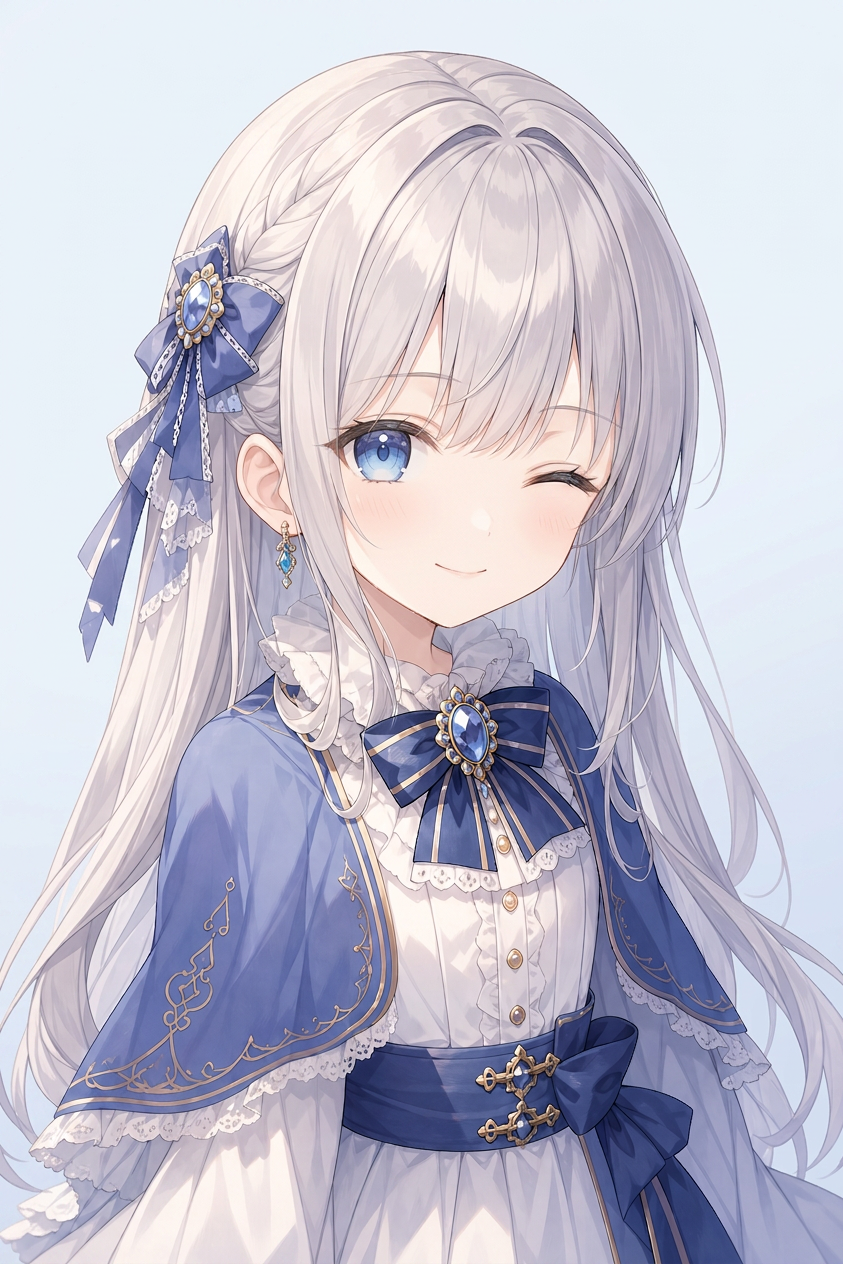
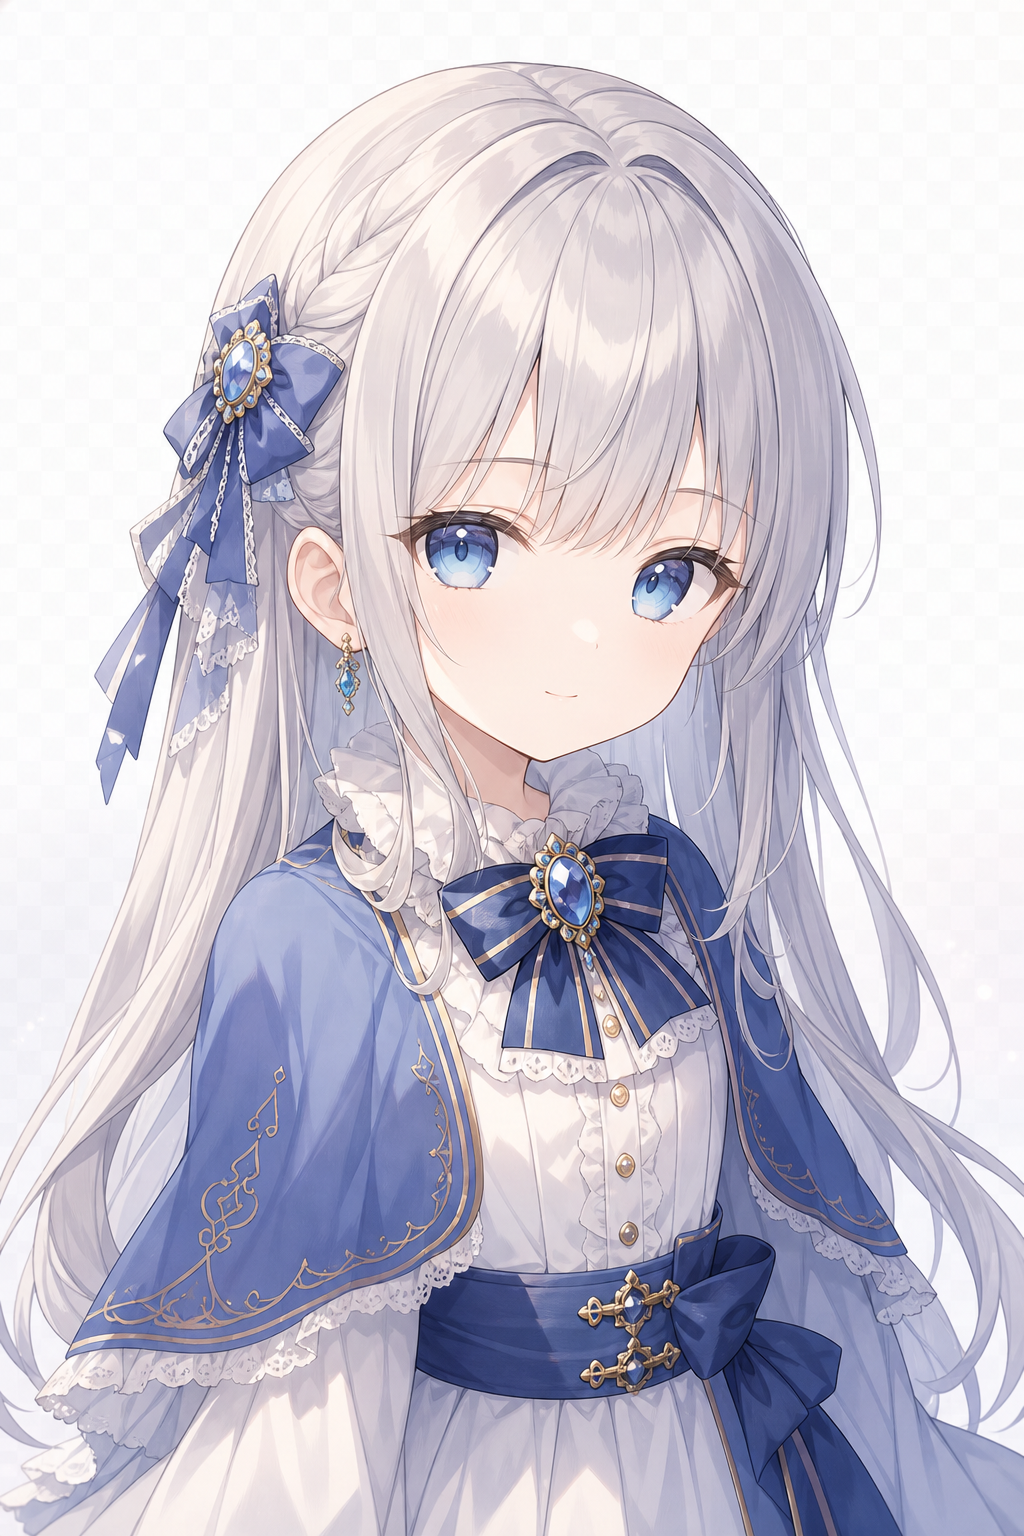
Update young-stage Sylvia diffs: redo serious, add sad and shy.
Keep the previous wink because the redo did not close an eye. Teary and surprised still pending.

diff --git a/assets/portraits/named/README.md b/assets/portraits/named/README.md
@@ -1,20 +1,14 @@
 # 正式命名立绘
 
 规则：`<角色>_<阶段>_<表情>.png`
-- 阶段：teenage = 15岁，young = 8岁
+- teenage = 15岁
+- young = 8岁
 
-## teenage（人工筛选 7 张）
-- sylvia_teenage_normal.png
-- sylvia_teenage_sad.png
-- sylvia_teenage_serious.png
-- sylvia_teenage_sleepy.png
-- sylvia_teenage_surprised.png
-- sylvia_teenage_teary.png
-- sylvia_teenage_wink.png
+## teenage
+sylvia_teenage_normal / sad / serious / sleepy / surprised / teary / wink
 
-## young（底图 young_normal + 已生成差分）
-- sylvia_young_normal.png
-- sylvia_young_serious.png
-- sylvia_young_wink.png
+## young
+sylvia_young_normal / serious / sad / shy / wink
 
-待补：sad / teary / surprised / shy
+待补：teary / surprised
+wink 使用上一版（本次重做未眨眼，未覆盖）
